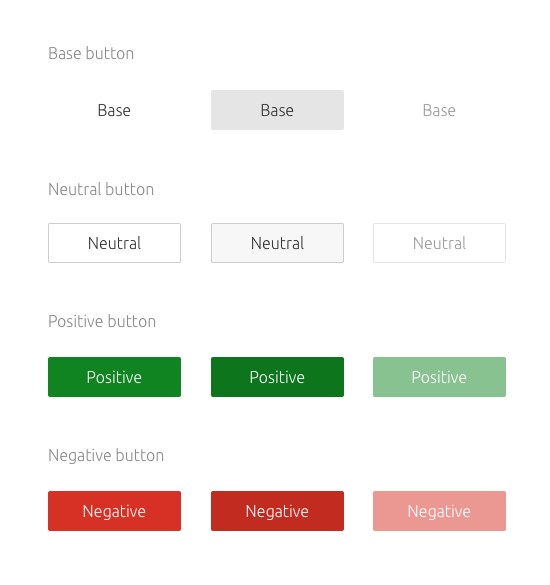
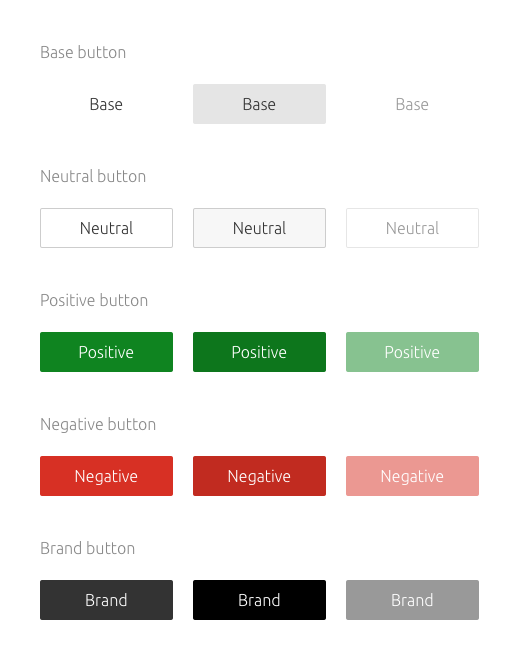
Added brand button

diff --git a/Buttons/buttons.md b/Buttons/buttons.md
@@ -31,3 +31,9 @@ Negative
 - Background color: $color-negative
 - Hover:
 	- Background color: 10% darker $color-negative
+
+Brand
+- Text color: $color-x-light
+- Background color: $color-brand
+- Hover:
+	- Background color: 10% darker $color-brand
